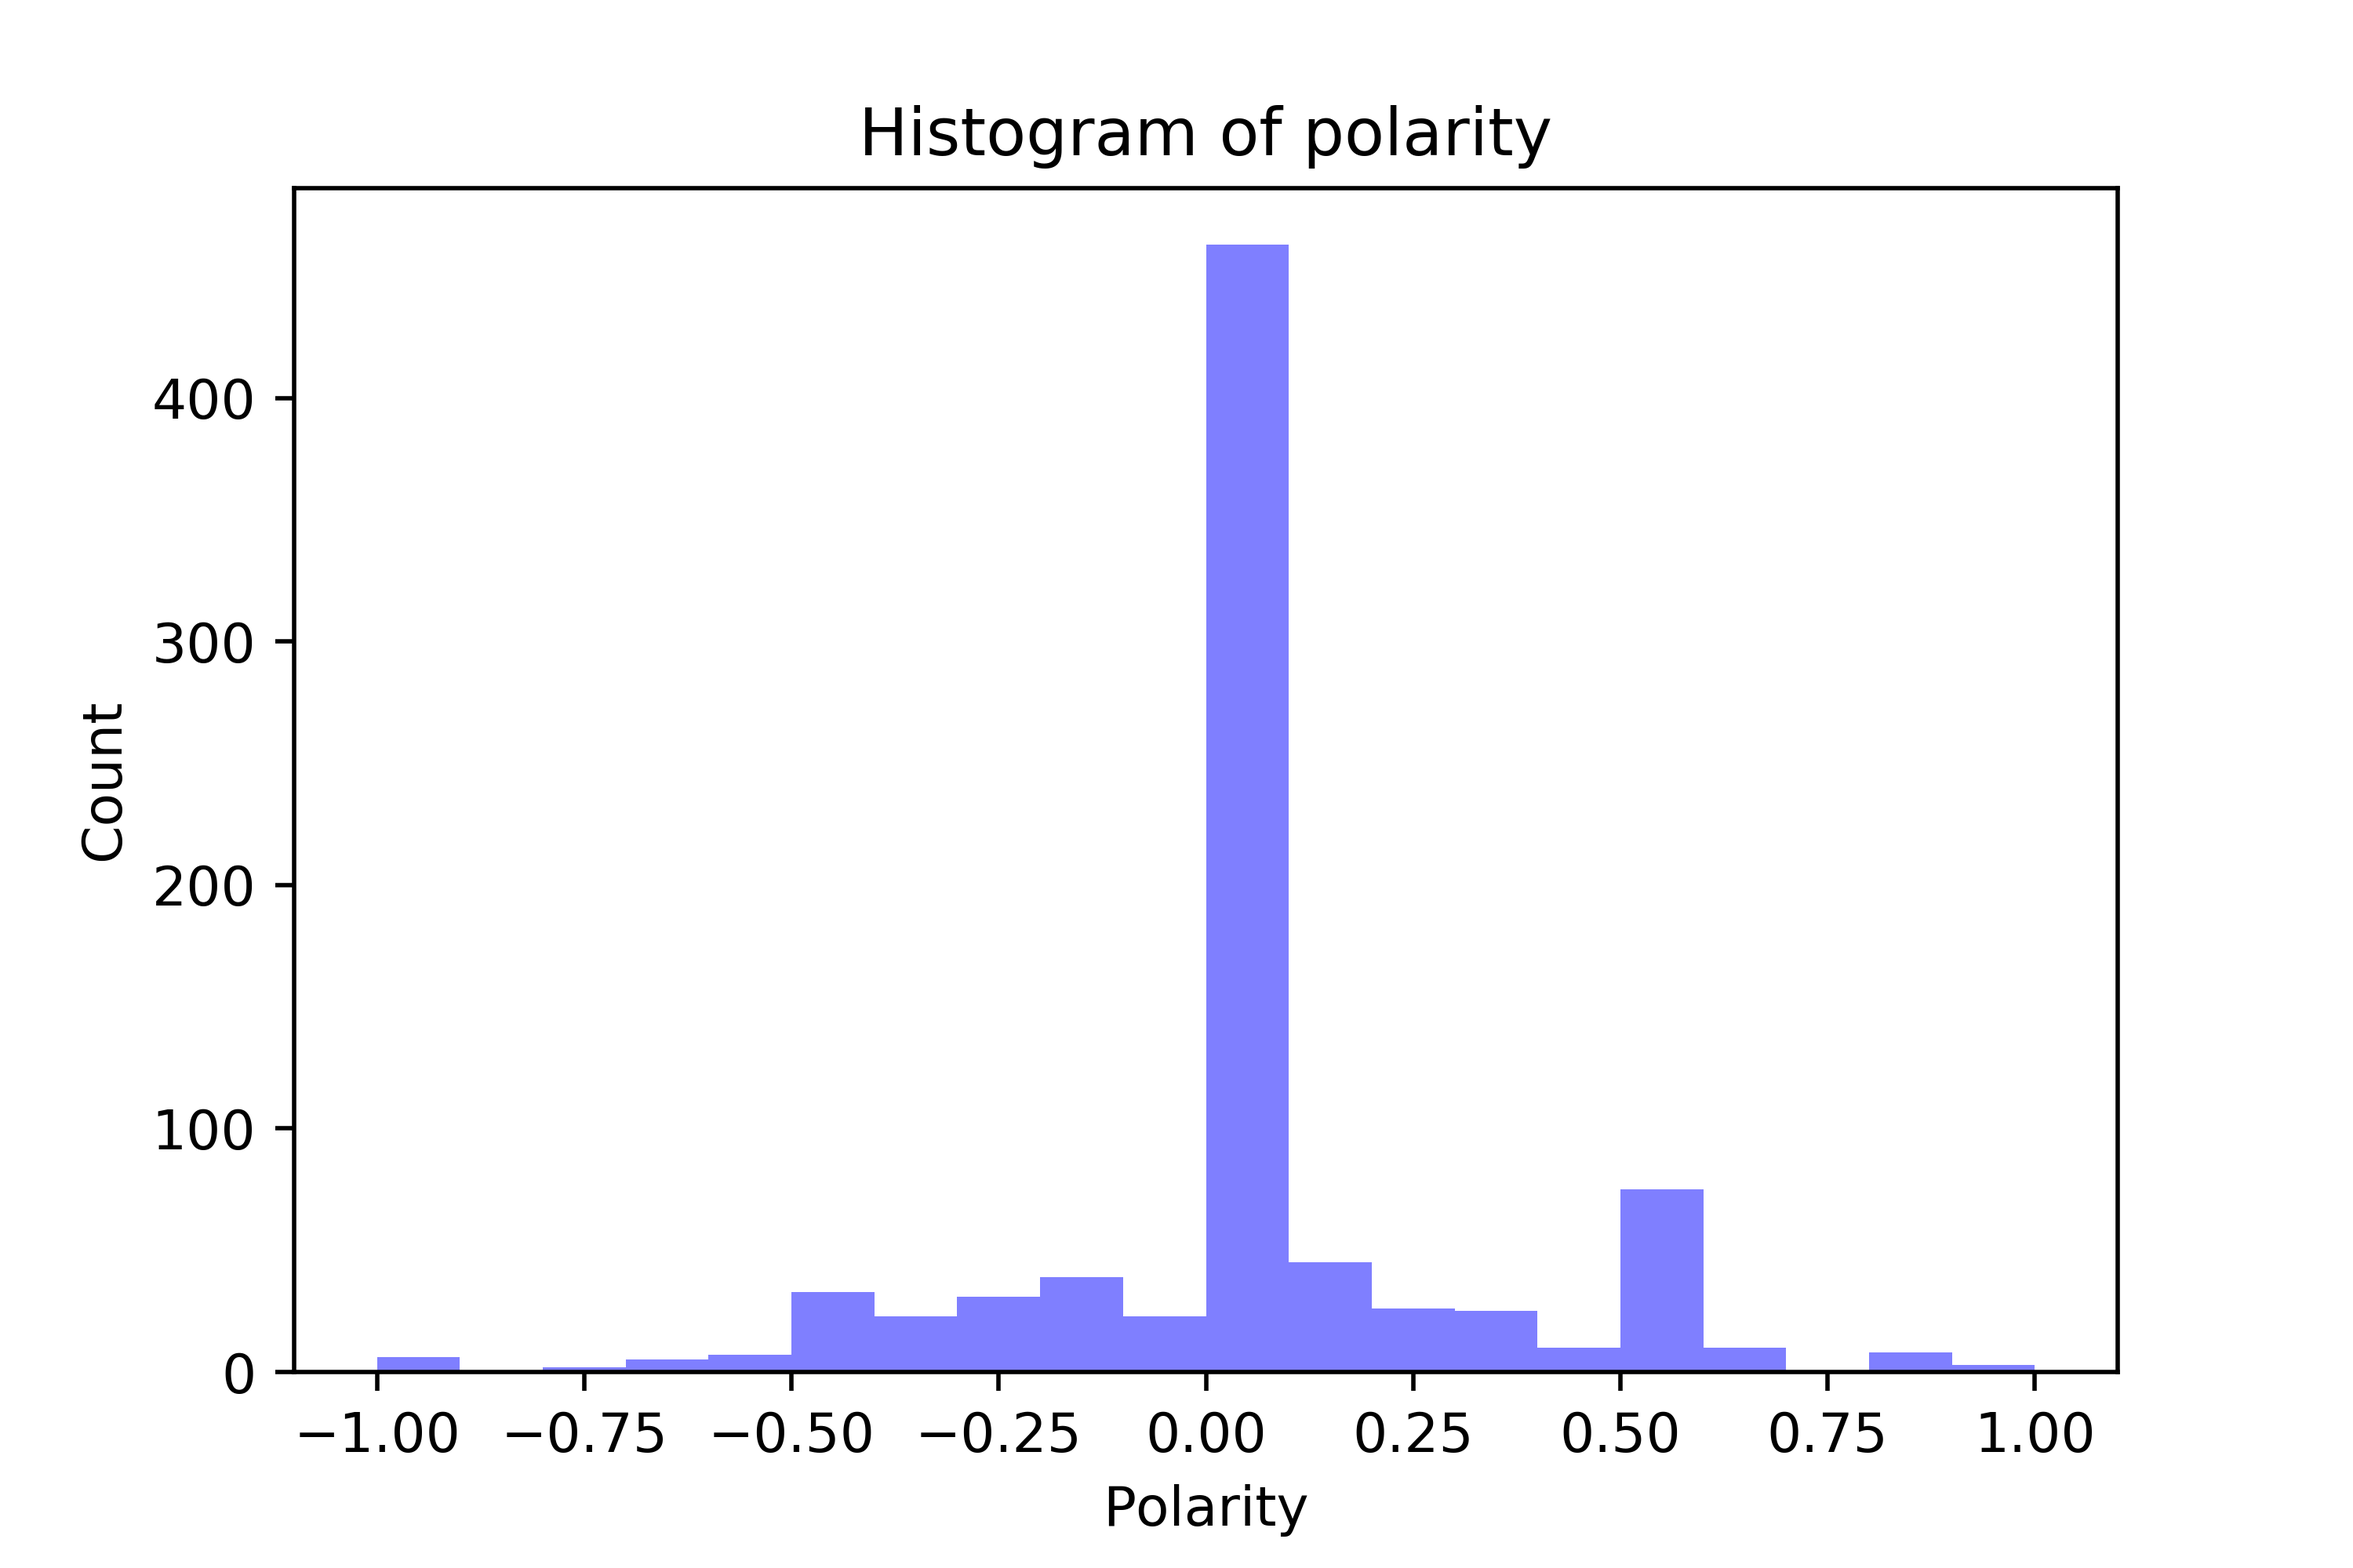
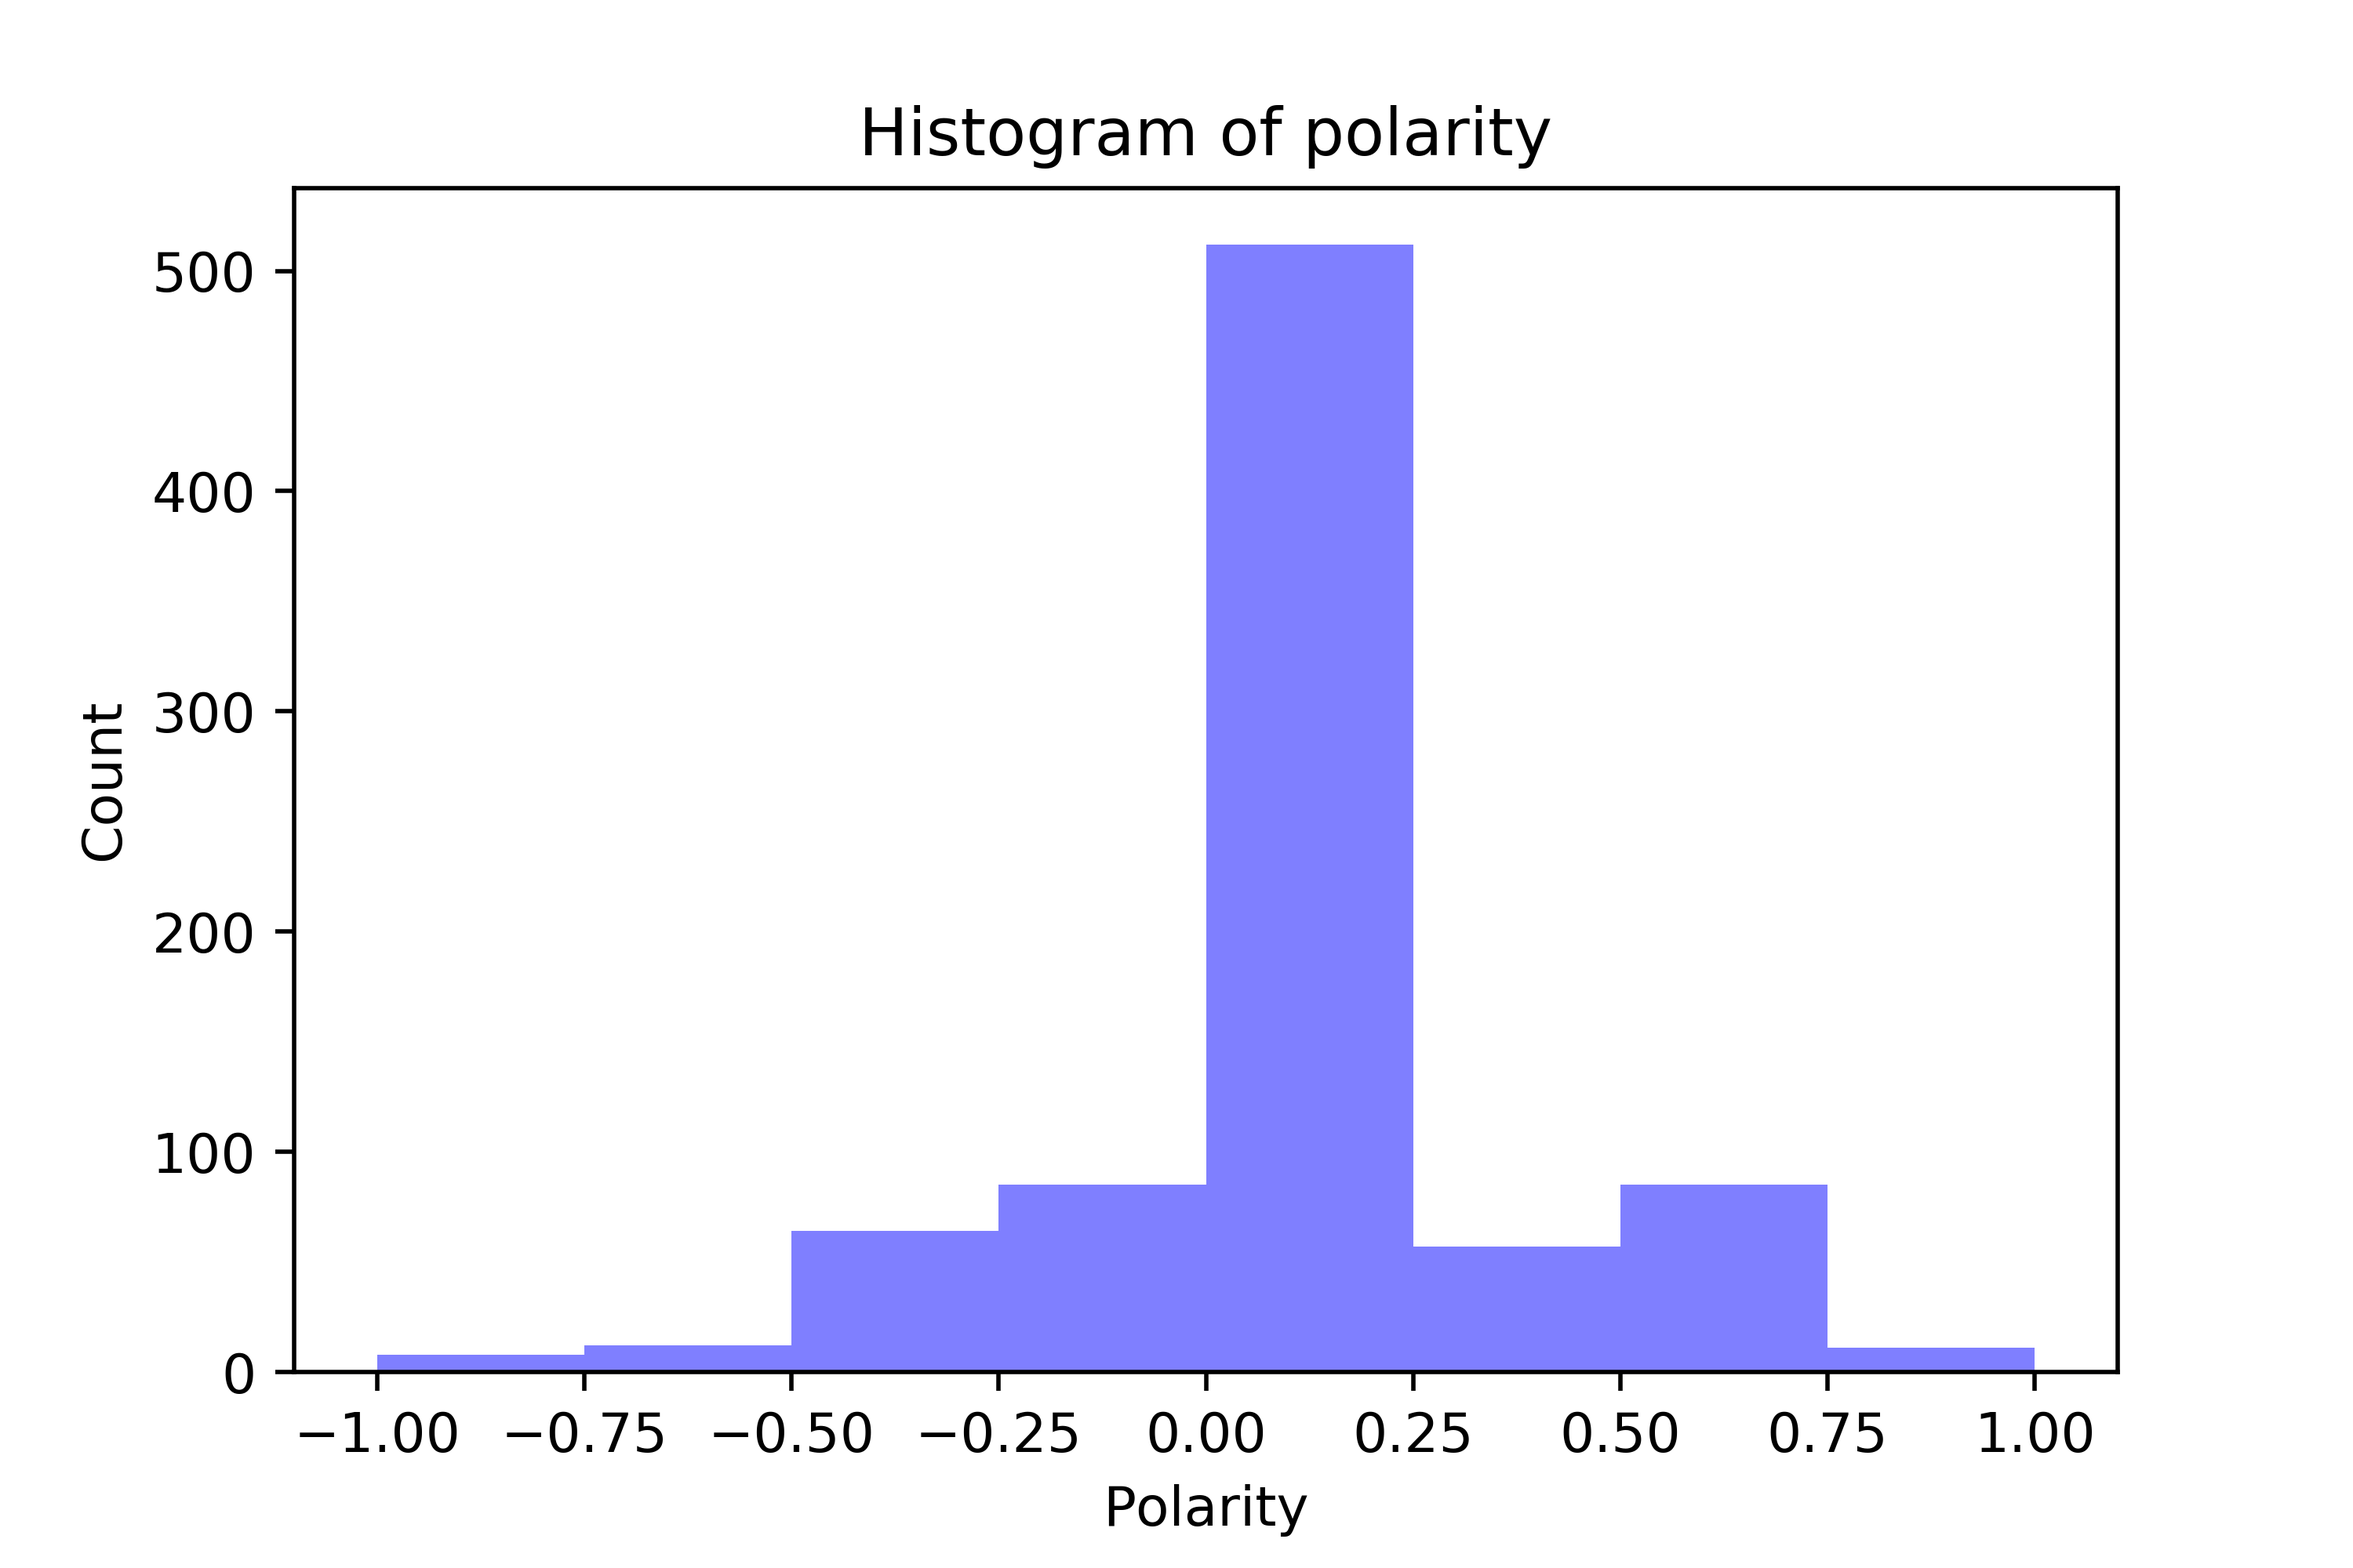
Added the content of the NL page.

diff --git a/scripts/sentiment.py b/scripts/sentiment.py
@@ -15,6 +15,7 @@
 from textblob import TextBlob
 import pandas as pd
 import spacy
+import seaborn as sns
 import matplotlib.pyplot as plt
 nlp = spacy.load("en_core_web_sm")
 # python -m spacy download en_core_web_sm
@@ -55,15 +56,16 @@ data.to_csv("../data/extracted/spaCy/versesOut.tsv", sep='\t', index=False)
 
 
 # %%%%%%%%%%%%%%%%%%%%%%%%%%%%%%%%%%%%%%%%%%%%%%%%%%%%%%%%%%%%%%%%%%%%%%%%%%%%%
-# Plotting
-num_bins = 20
+# Plotting Histograms
+num_bins = 8
 n, bins, patches = plt.hist(
     data.polarity, num_bins, facecolor='blue', alpha=0.5
 )
 plt.xlabel('Polarity')
 plt.ylabel('Count')
 plt.title('Histogram of polarity')
-plt.savefig('./images/polarity.png', dpi=500)
+plt.savefig('./images/sentiment01.png', dpi=500)
+
 
 
 plt.figure(figsize=(10, 6))
@@ -73,4 +75,10 @@ n, bins, patches = plt.hist(
 plt.xlabel('Subjectivity')
 plt.ylabel('Count')
 plt.title('Histogram of subjectivity')
-plt.savefig('./images/subjectivity.png', dpi=500)
+plt.savefig('./images/sentiment02.png', dpi=500)
+
+
+# %%%%%%%%%%%%%%%%%%%%%%%%%%%%%%%%%%%%%%%%%%%%%%%%%%%%%%%%%%%%%%%%%%%%%%%%%%%%%
+# Plotting Distributions
+sns.distplot(polarities)
+sns.violinplot(polarities)

diff --git a/scripts/tweepyDemo.py b/scripts/tweepyDemo.py
@@ -44,7 +44,7 @@ user = api.me()
 ###############################################################################
 # Using a cursor to get tags from twitter
 maxTweets = 10000
-tagText = "#datascience"
+tagText = "#dataanalysis"
 sinceDate = "2017-04-03"
 
 ###############################################################################
@@ -56,9 +56,9 @@ csvFile = open(
 csvWriter = csv.writer(csvFile)
 
 for tweet in tweepy.Cursor(
-        api.search, q=tagText, count=maxTweets, 
-        lang="en", since=sinceDate, tweet_mode='extended'
-    ).items():
+            api.search, q=tagText, count=maxTweets,
+            lang="en", since=sinceDate, tweet_mode='extended'
+        ).items():
     # print (tweet.created_at, tweet.text)
     csvWriter.writerow([tweet.created_at, tweet.full_text])
 print("Finished!")

diff --git a/README.md b/README.md
@@ -30,6 +30,7 @@ This workshop was created with flexibility in mind. As such, modules are fairly 
 1. [Python 101](./md/python.md): Introduction to the programming language: [description](./md/python.md), [core types](./md/python101.md), [collections (data structures)](./md/python101b.md) and [functions](./md/python101c.md).
 1. [Python Environments](./md/environments.md): Using [anaconda](./md/anaconda.md) and [virtualenv](./md/virtualenv.md) for development.
 1. [IDE's](./md/ides.md): Using [Jupyter](https://jupyter.org/), [Spyder](https://www.spyder-ide.org/), [nteract](https://nteract.io/), and [Atom](https://ide.atom.io/) to write and launch our code.
+1. [Plotting](./md/plots.md): Using [matplotlib](https://matplotlib.org/) and [seaborn](https://seaborn.pydata.org/) to generate meaningful data representations.
 
 ### Day 02 (8h)
 
@@ -40,7 +41,6 @@ This workshop was created with flexibility in mind. As such, modules are fairly 
 1. [Twitter](./md/twitter.md): Interfacing with the API to get trends, tweets, tags, etcetera.
 1. [Data Wrangling (part 2)](./md/dataWrangling.md): Using [scikit-learn](./md/scikitLearn.md) to parse, manipulate, and pre-analyze data.
 
-<!--1. [Python 102](./md/python102.md): Object-oriented concepts.-->
 
 ### Day 03 (8h)
 
@@ -48,8 +48,9 @@ This workshop was created with flexibility in mind. As such, modules are fairly 
 1. [Google Trends](./md/googleTrends.md): Retrieving trends from google searches.
 1. [Pypi](./md/pypi.md): Installing, browsing, and handling python packages.
 1. [Python pkg](./md/pypi.md): Creating and installing a custom python package.
-1. [GeoData](./md/geoData.md): A couple of examples of how to work with geographic datasets.
-1. [Plotting](./md/plots.md): Using [matplotlib](https://matplotlib.org/) and [seaborn](https://seaborn.pydata.org/) to generate meaningful data representations.
+1. [GeoData](./md/geoData.md): How to work with geographic datasets.
+1. [Sentiment Analysis](./md/language.md): Basic examples of how to do simple linguistic sentiment analysis in python.
+
 
 <img src="./md/media/flow.jpg" width="100%" height=7.5px>
 

diff --git a/md/language.md b/md/language.md
@@ -1,0 +1,27 @@
+# dataPy: Basic Language Analysis
+
+Natural language analysis is a large area of study in which we can not go deeply during this workshop, but we can definitely do some basic scripts to showcase the two main packages to do these kind of analyses: [nltk](https://www.nltk.org/) and [spaCy](https://spacy.io/).
+
+<hr>
+
+##  Exercises
+
+### [Exercise 1: Song Verses Sentiment Analysis](../scripts/sentiment.py)
+
+Loading a **CSV** containing song verses into a pandas dataframe and analyze their polarity.
+
+<img src="./media/sentiment01.png" width="50%">
+
+### [Exercise 2: Tweets Sentiment Analysis](../scripts/tweetsAnalysis.py)
+
+Clean and analyze the sentiment of the tweets stored to the CSV file in the previous exercise.
+
+<img src="./media/sentiment.png" width="50%">
+
+<hr>
+
+##  Resources
+
+* https://pypi.org/project/tweet-preprocessor/
+* https://spacy.io/usage/models
+* https://towardsdatascience.com/having-fun-with-textblob-7e9eed783d3f

diff --git a/md/twitter.md b/md/twitter.md
@@ -70,12 +70,6 @@ Gather the latest tweets with a given hashtag and store them in a CSV file for f
 
 <img src="./media/parser.png" width="50%">
 
-### [Exercise 3: Tweets Sentiment Analysis](../scripts/tweetsAnalysis.py)
-
-Clean and analyze the sentiment of the tweets stored to the CSV file in the previous exercise.
-
-<img src="./media/sentiment.png" width="50%">
-
 <hr>
 
 ## Resources
